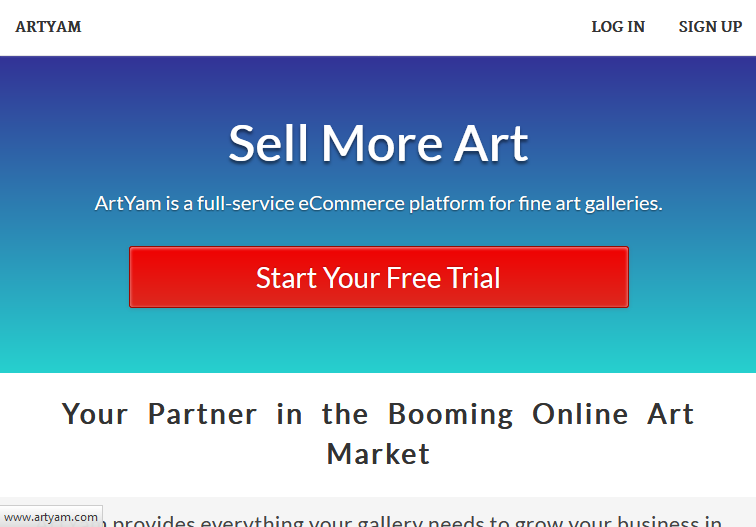
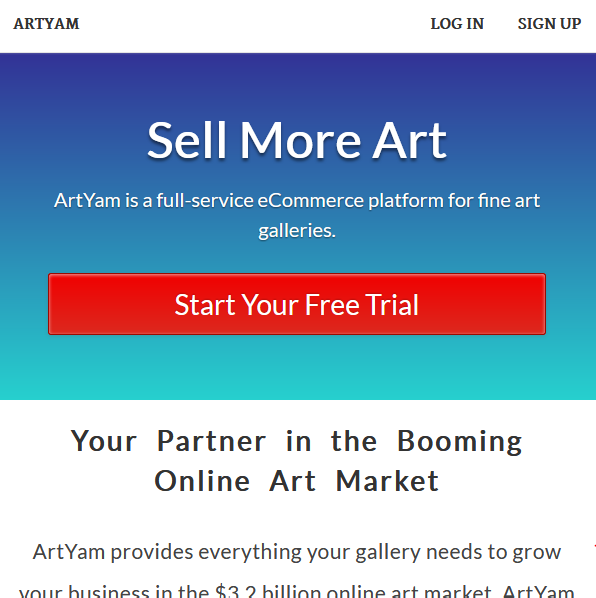
activ

diff --git a/app/assets/stylesheets/pages.scss b/app/assets/stylesheets/pages.scss
@@ -371,7 +371,7 @@ img.blurred{
 		max-width: 800px;
 		width: 100%;
 		margin: 0 auto;
-		padding-top: 50px;
+		padding: 50px 0px;
 
 		header{
 			margin-bottom: 20px;
@@ -382,11 +382,13 @@ img.blurred{
 		h3{
 			font-size: 24px;
 			text-align:center;
+			margin-bottom: 16px;
 		}
 
 		h4{
 			font-size: 20px;
 			text-align: center;
+			margin-bottom: 10px;
 		}
 
 		p{

diff --git a/app/assets/stylesheets/grid.css.scss b/app/assets/stylesheets/grid.css.scss
@@ -76,7 +76,7 @@
     width:100%;
     text-align:center;
     text-transform:capitalize;
-    font-size:24px;
+    font-size:30px;
     font-weight:700;
     top:40%;
     color: #fff;
@@ -93,7 +93,7 @@
 
 @media (max-width: 9000px) {
     #rig li {
-        width:100.00%;
+        width:50.00%;
     }
 }
 
